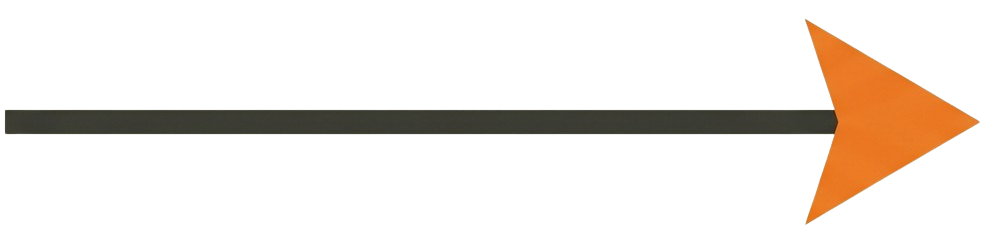
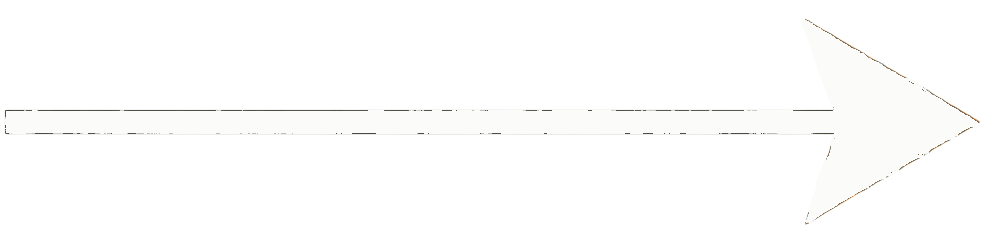
Version 0.5

Changed region(s): [[0.0, 0.084, 0.993, 0.896]]

diff --git a/src/numeric/numeric.cpp b/src/numeric/numeric.cpp
@@ -1,6 +1,8 @@
+#include "include/numeric.h"
 #include "config.h"
 #include "cordinats.h"
 #include "control.h"
+#include <climits>
 #include <cmath>
 #include <utility>
 #include <vector>
@@ -56,12 +58,13 @@ void calc_curve(float scale, bool *is_generating,
 std::vector<std::vector<int>> calculate_arrow_angle(float range) {
   std::vector<std::vector<int>> output;
   float x = -range / 2, y = range / 2;
+  float dx,dy;
   float diff = range / (AMMOUNT_OF_ARROWS - 1);
   for (int i = 0; i <= AMMOUNT_OF_ARROWS; i++) {
     std::vector<int> line;
     for (int j = 0; j <= AMMOUNT_OF_ARROWS; j++) {
-      float dy = y_equation(x, y);
-      float dx = x_equation(x, y);
+      dy = y_equation(x, y);
+      dx = x_equation(x, y);
       int angle = -(std::atan2(dy, dx) * 180.0 / M_PI);
       line.push_back(angle);
       x += diff;
@@ -69,6 +72,43 @@ std::vector<std::vector<int>> calculate_arrow_angle(float range) {
     y -= diff;
     x = -range / 2;
     output.push_back(line);
+  }
+  return output;
+}
+
+std::vector<std::vector<float>> calculate_arrow_color(float range) {
+  std::vector<std::vector<float>> output;
+  std::vector<float> magnitudes;
+  float x = -range / 2, y = range / 2;
+  float diff = range / (AMMOUNT_OF_ARROWS - 1);
+  for (int i = 0; i <= AMMOUNT_OF_ARROWS; i++) {
+    std::vector<float> line;
+    for (int j = 0; j <= AMMOUNT_OF_ARROWS; j++) {
+      if (std::abs(x)<range/1000) x = -range/1000;
+      if (std::abs(y)<range/1000) y = -range/1000;
+      float dy = y_equation(x, y);
+      float dx = x_equation(x, y);
+      float magnitude = std::sqrt(dx * dx + dy * dy);
+      line.push_back(magnitude);
+      magnitudes.push_back(magnitude);
+      x += diff;
+    }
+    y -= diff;
+    x = -range / 2;
+    output.push_back(line);
+  }
+  std::sort(magnitudes.begin(), magnitudes.end());
+  float mediana = magnitudes[magnitudes.size() / 2];
+  float min_magnitude = magnitudes[0];
+  for(auto &line : output) {
+    for(auto &magnitude : line) {
+      if (magnitude <= mediana){
+        magnitude = 250 - std::max(0,int(125 * (magnitude - min_magnitude) / (mediana - min_magnitude)));
+      }
+      else {
+        magnitude = 250 - std::min(250, int(125 + 125 * (magnitude - mediana) / (mediana - min_magnitude)));
+      }
+    }
   }
   return output;
 }

diff --git a/src/rendering/rendering.cpp b/src/rendering/rendering.cpp
@@ -1,3 +1,4 @@
+#include <SDL_render.h>
 #include <SDL_video.h>
 #include <iomanip>
 #include <utility>
@@ -11,6 +12,36 @@
 #include <SDL.h>
 #include <SDL_image.h>
 #include <SDL_ttf.h>
+
+std::vector<int> hsv_to_rgb(float H) {
+  float R,G,B;
+  float S=1, V=1;
+  int h = int(H / 60) % 6;
+  float f = H/60 - int(H/60);
+  float p = V*(1-S), q = V*(1-S*f), t = V*(1-S*(1-f));
+  switch (h) {
+  case 0:
+    R=V,G=t,B=p;
+    break;
+  case 1:
+    R=q,G=V,B=p;
+    break;
+  case 2:
+    R=p,G=V,B=t;
+    break;
+  case 3:
+    R=p,G=q,B=V;
+    break;
+  case 4:
+    R=t,G=p,B=V;
+    break;
+  case 5:
+    R=V,G=p,B=q;
+    break;
+  }
+  std::vector<int> rgb = {int(R*255), int(G*255), int(B*255)};
+  return rgb;
+}
 
 std::string generate_numbers(std::vector<float> cords, float scale, bool is_pair) {
   int order = std::ceil(std::log10(WINDOW_W / (2 * scale)));
@@ -146,15 +177,20 @@ void render_arrows(SDL_Renderer *renderer, SDL_Texture *arrow, float scale) {
   int x_index = 0, y_index = 0;
   std::vector<std::vector<int>> arrow_angles =
       calculate_arrow_angle(WINDOW_W / scale);
-  for (int j = Y_WINDOW_OFFSET - 8; j <= WINDOW_H + Y_WINDOW_OFFSET;
+  std::vector<std::vector<float>> arrow_colors =
+      calculate_arrow_color(WINDOW_W / scale);
+  for (int j = Y_WINDOW_OFFSET + Y_ARROW_RENDER_OFFSET; j <= WINDOW_H + Y_WINDOW_OFFSET;
        j += arrow_offset_h) {
-    for (int i = X_WINDOW_OFFSET; i <= WINDOW_W + X_WINDOW_OFFSET;
+    for (int i = X_WINDOW_OFFSET + X_ARROW_RENDER_OFFSET; i <= WINDOW_W + X_WINDOW_OFFSET;
          i += arrow_offset_w) {
       if (x_index >= BOARDER && x_index < AMMOUNT_OF_ARROWS - BOARDER &&
           y_index >= BOARDER && y_index < AMMOUNT_OF_ARROWS - BOARDER) {
         SDL_Rect arrow_pos = {i, j, ARROW_WIDTH, ARROW_HEIGHT};
         SDL_Point rot_axis = {0, ARROW_HEIGHT / 2};
         int angle = arrow_angles[y_index][x_index];
+        int color = arrow_colors[y_index][x_index];
+        std::vector<int> rgb = hsv_to_rgb(color);
+        SDL_SetTextureColorMod(arrow, rgb[0], rgb[1], rgb[2]);
         SDL_RenderCopyEx(renderer, arrow, NULL, &arrow_pos, angle, &rot_axis, SDL_FLIP_NONE);
       }
       x_index++;

diff --git a/main.cpp b/main.cpp
@@ -51,9 +51,10 @@ int main() {
         running = false;
       }
     }
-    SDL_SetRenderDrawColor(renderer, 100, 200, 200, 255);
+    SDL_SetRenderDrawColor(renderer, 50, 50, 50, 255);
     SDL_RenderClear(renderer);
-    SDL_SetRenderDrawColor(renderer, 200, 200, 200, 255);
+    SDL_SetRenderDrawColor(renderer, 170, 170, 170, 50);
+     SDL_RenderFillRect(renderer, &phase_poitrat);
     SDL_RenderFillRect(renderer, &phase_poitrat);
 
     if (equations::valid) {

diff --git a/include/config.h b/include/config.h
@@ -4,12 +4,14 @@
 #define WINDOW_W 1000
 #define WINDOW_H 1000
 #define AMMOUNT_OF_ARROWS 51
-#define BOARDER 4
+#define BOARDER 2
 #define X_WINDOW_OFFSET 850
 #define Y_WINDOW_OFFSET 40
 
 #define ARROW_WIDTH 20
 #define ARROW_HEIGHT 16
+#define X_ARROW_RENDER_OFFSET 0
+#define Y_ARROW_RENDER_OFFSET -8
 
 #define CORDINAT_Y_OFFSET 7
 #define CORDINAT_X_OFFSET 0

diff --git a/src/numeric/include/numeric.h b/src/numeric/include/numeric.h
@@ -9,5 +9,6 @@ void calc_curve(float scale, bool *is_generating,
                 std::vector<std::pair<float, float>> *curve);
 
 std::vector<std::vector<int>> calculate_arrow_angle(float range);
+std::vector<std::vector<float>> calculate_arrow_color(float range);
 
 #endif